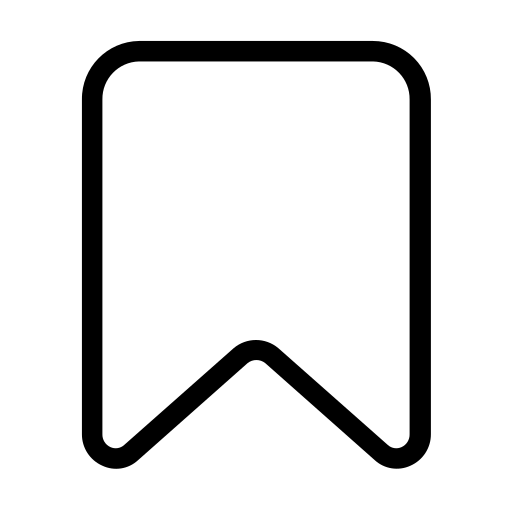
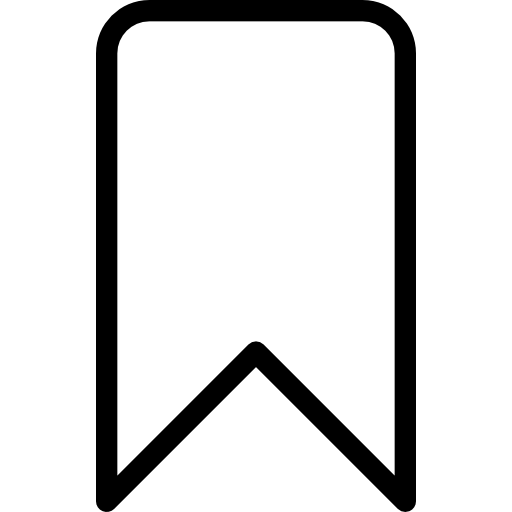
Add bookmarking to tweet

Changed region(s): [[0.1562, 0.0, 0.8438, 1.0]]

diff --git a/app/presenters/tweet_presenter.rb b/app/presenters/tweet_presenter.rb
@@ -13,6 +13,7 @@ class TweetPresenter
     delegate :display_name, :avatar, :username, to: :user
 
     def created_at
+        # tweet.created_at < 1.day.ago
         if (Time.zone.now - tweet.created_at) > 1.day
             tweet.created_at.strftime("%b %-d")
         else
@@ -28,7 +29,7 @@ class TweetPresenter
         end
     end
 
-    def like_heart_image
+    def like_image
         if tweet_liked_by_current_user?
             "heart-filled.png"
         else
@@ -36,7 +37,39 @@ class TweetPresenter
         end
     end
 
-    def turbo_data_method
+    def bookmark_tweet_url
+        if tweet_bookmarked_by_current_user?
+            tweet_bookmark_path(tweet, current_user.bookmarks.find_by(tweet: tweet))
+        else
+            tweet_bookmarks_path(tweet)
+        end
+    end
+
+    def turbo_bookmark_data_method
+        if tweet_bookmarked_by_current_user?
+            "delete"
+        else
+            "post"
+        end
+    end
+
+    def bookmark_text
+        if tweet_bookmarked_by_current_user?
+            "Bookmarked"
+        else
+            "Bookmark"
+        end
+    end
+
+    def bookmark_image
+        if tweet_bookmarked_by_current_user?
+            "bookmark-filled.png"
+        else
+            "bookmark-unfilled.png"
+        end
+    end
+
+    def turbo_like_data_method
         if tweet_liked_by_current_user?
             "delete"
         else
@@ -51,4 +84,9 @@ class TweetPresenter
         @tweet_liked_by_current_user ||= tweet.liked_users.include?(current_user)
     end
     alias_method :tweet_liked_by_current_user?,  :tweet_liked_by_current_user
+
+    def tweet_bookmarked_by_current_user
+        @tweet_bookmarked_by_current_user ||= tweet.bookmarked_users.include?(current_user)
+    end
+    alias_method :tweet_bookmarked_by_current_user?,  :tweet_bookmarked_by_current_user
 end

diff --git a/db/schema.rb b/db/schema.rb
@@ -10,7 +10,7 @@
 #
 # It's strongly recommended that you check this file into your version control system.
 
-ActiveRecord::Schema[7.0].define(version: 2023_03_11_221753) do
+ActiveRecord::Schema[7.0].define(version: 2023_03_12_164818) do
   # These are extensions that must be enabled in order to support this database
   enable_extension "plpgsql"
 
@@ -40,6 +40,16 @@ ActiveRecord::Schema[7.0].define(version: 2023_03_11_221753) do
     t.bigint "blob_id", null: false
     t.string "variation_digest", null: false
     t.index ["blob_id", "variation_digest"], name: "index_active_storage_variant_records_uniqueness", unique: true
+  end
+
+  create_table "bookmarks", force: :cascade do |t|
+    t.bigint "tweet_id", null: false
+    t.bigint "user_id", null: false
+    t.datetime "created_at", null: false
+    t.datetime "updated_at", null: false
+    t.index ["tweet_id"], name: "index_bookmarks_on_tweet_id"
+    t.index ["user_id", "tweet_id"], name: "index_bookmarks_on_user_id_and_tweet_id", unique: true
+    t.index ["user_id"], name: "index_bookmarks_on_user_id"
   end
 
   create_table "likes", force: :cascade do |t|
@@ -77,6 +87,8 @@ ActiveRecord::Schema[7.0].define(version: 2023_03_11_221753) do
 
   add_foreign_key "active_storage_attachments", "active_storage_blobs", column: "blob_id"
   add_foreign_key "active_storage_variant_records", "active_storage_blobs", column: "blob_id"
+  add_foreign_key "bookmarks", "tweets"
+  add_foreign_key "bookmarks", "users"
   add_foreign_key "likes", "tweets"
   add_foreign_key "likes", "users"
   add_foreign_key "tweets", "users"

diff --git a/spec/requests/bookmarks_spec.rb b/spec/requests/bookmarks_spec.rb
@@ -1,0 +1,27 @@
+require 'rails_helper'
+
+RSpec.describe "Bookmarks", type: :request do
+    let(:user) { create(:user) }
+    let(:tweet) { create(:tweet) }
+
+    before { sign_in user }
+
+    describe "POST create" do
+        it "creates a new Bookmark" do
+            expect do
+                post tweet_bookmarks_path(tweet)
+            end.to change { Bookmark.count }.by(1)
+            expect(response).to have_http_status(:redirect)
+        end
+    end
+
+    describe "DELETE destroy" do
+        it "deletes a Bookmark" do
+            bookmark = create(:bookmark, user: user, tweet: tweet)
+            expect do
+                delete tweet_bookmark_path(tweet, bookmark)
+            end.to change { Bookmark.count }.by(-1)
+            expect(response).to have_http_status(:redirect)
+        end
+    end
+end

diff --git a/app/controllers/bookmarks_controller.rb b/app/controllers/bookmarks_controller.rb
@@ -1,0 +1,26 @@
+class BookmarksController < ApplicationController
+    before_action :authenticate_user!
+
+    def create
+        @bookmark = current_user.bookmarks.create(tweet: tweet)
+        respond_to do |format|
+            format.html { redirect_to dashboard_url }
+            format.turbo_stream
+        end
+    end
+
+    def destroy
+        @bookmark = tweet.bookmarks.find(params[:id])
+        @bookmark.destroy
+        respond_to do |format|
+            format.html { redirect_to dashboard_url }
+            format.turbo_stream
+        end
+    end
+
+    private
+
+    def tweet
+        @tweet ||= Tweet.find(params[:tweet_id])
+    end
+end

diff --git a/spec/models/user_spec.rb b/spec/models/user_spec.rb
@@ -5,6 +5,8 @@ RSpec.describe User, type: :model do
   it { should validate_uniqueness_of(:username).case_insensitive.allow_blank }
   it { should have_many(:likes).dependent(:destroy) }
   it { should have_many(:liked_tweets).through(:likes).source(:tweet) }
+  it { should have_many(:bookmarks).dependent(:destroy) }
+  it { should have_many(:bookmarked_tweets).through(:bookmarks).source(:tweet) }
 
   describe "#set_display_name" do
     context "when display name is set" do

diff --git a/app/controllers/dashboard_controller.rb b/app/controllers/dashboard_controller.rb
@@ -2,7 +2,7 @@ class DashboardController < ApplicationController
     before_action :authenticate_user!
     
     def index
-        @tweets = Tweet.includes(:liked_users, :likes).order(created_at: :desc).map do |tweet| 
+        @tweets = Tweet.includes(:liked_users, :bookmarked_users, :likes).order(created_at: :desc).map do |tweet| 
             TweetPresenter.new(tweet: tweet, current_user: current_user)
         end
     end

diff --git a/spec/models/tweet_spec.rb b/spec/models/tweet_spec.rb
@@ -5,4 +5,6 @@ RSpec.describe Tweet, type: :model do
   it { should validate_presence_of(:body) }
   it { should validate_length_of(:body).is_at_most(280) }
   it { should have_many(:likes).dependent(:destroy) }
+  it { should have_many(:bookmarks).dependent(:destroy) }
+  it { should have_many(:liked_users).through(:likes).source(:user) }
 end

diff --git a/db/migrate/20230312164818_create_bookmarks.rb b/db/migrate/20230312164818_create_bookmarks.rb
@@ -1,0 +1,12 @@
+class CreateBookmarks < ActiveRecord::Migration[7.0]
+  def change
+    create_table :bookmarks do |t|
+      t.references :tweet, null: false, foreign_key: true
+      t.references :user, null: false, foreign_key: true
+
+      t.index [:user_id, :tweet_id], unique: true
+
+      t.timestamps
+    end
+  end
+end

diff --git a/app/models/user.rb b/app/models/user.rb
@@ -9,6 +9,8 @@ class User < ApplicationRecord
   has_many :tweets, dependent: :destroy
   has_many :likes, dependent: :destroy
   has_many :liked_tweets, through: :likes, source: :tweet
+  has_many :bookmarks, dependent: :destroy
+  has_many :bookmarked_tweets, through: :bookmarks, source: :tweet
 
   has_one_attached :avatar
 

diff --git a/app/models/tweet.rb b/app/models/tweet.rb
@@ -3,4 +3,6 @@ class Tweet < ApplicationRecord
   validates :body, presence: true, length: { maximum: 280 }
   has_many :likes, dependent: :destroy
   has_many :liked_users, through: :likes, source: :user
+  has_many :bookmarks, dependent: :destroy
+  has_many :bookmarked_users, through: :bookmarks, source: :user
 end

diff --git a/config/routes.rb b/config/routes.rb
@@ -4,6 +4,7 @@ Rails.application.routes.draw do
 
   resources :tweets, only: :create do
     resources :likes, only: [:create, :destroy]
+    resources :bookmarks, only: [:create, :destroy]
   end
 
   get '/dashboard', to: 'dashboard#index'

diff --git a/spec/models/bookmark_spec.rb b/spec/models/bookmark_spec.rb
@@ -1,0 +1,7 @@
+require 'rails_helper'
+
+RSpec.describe Bookmark, type: :model do
+  it { should belong_to :user }
+  it { should belong_to :tweet }
+  # it { should have_many(:bookmarked_users).through(:bookmarks).source(:user) }
+end
